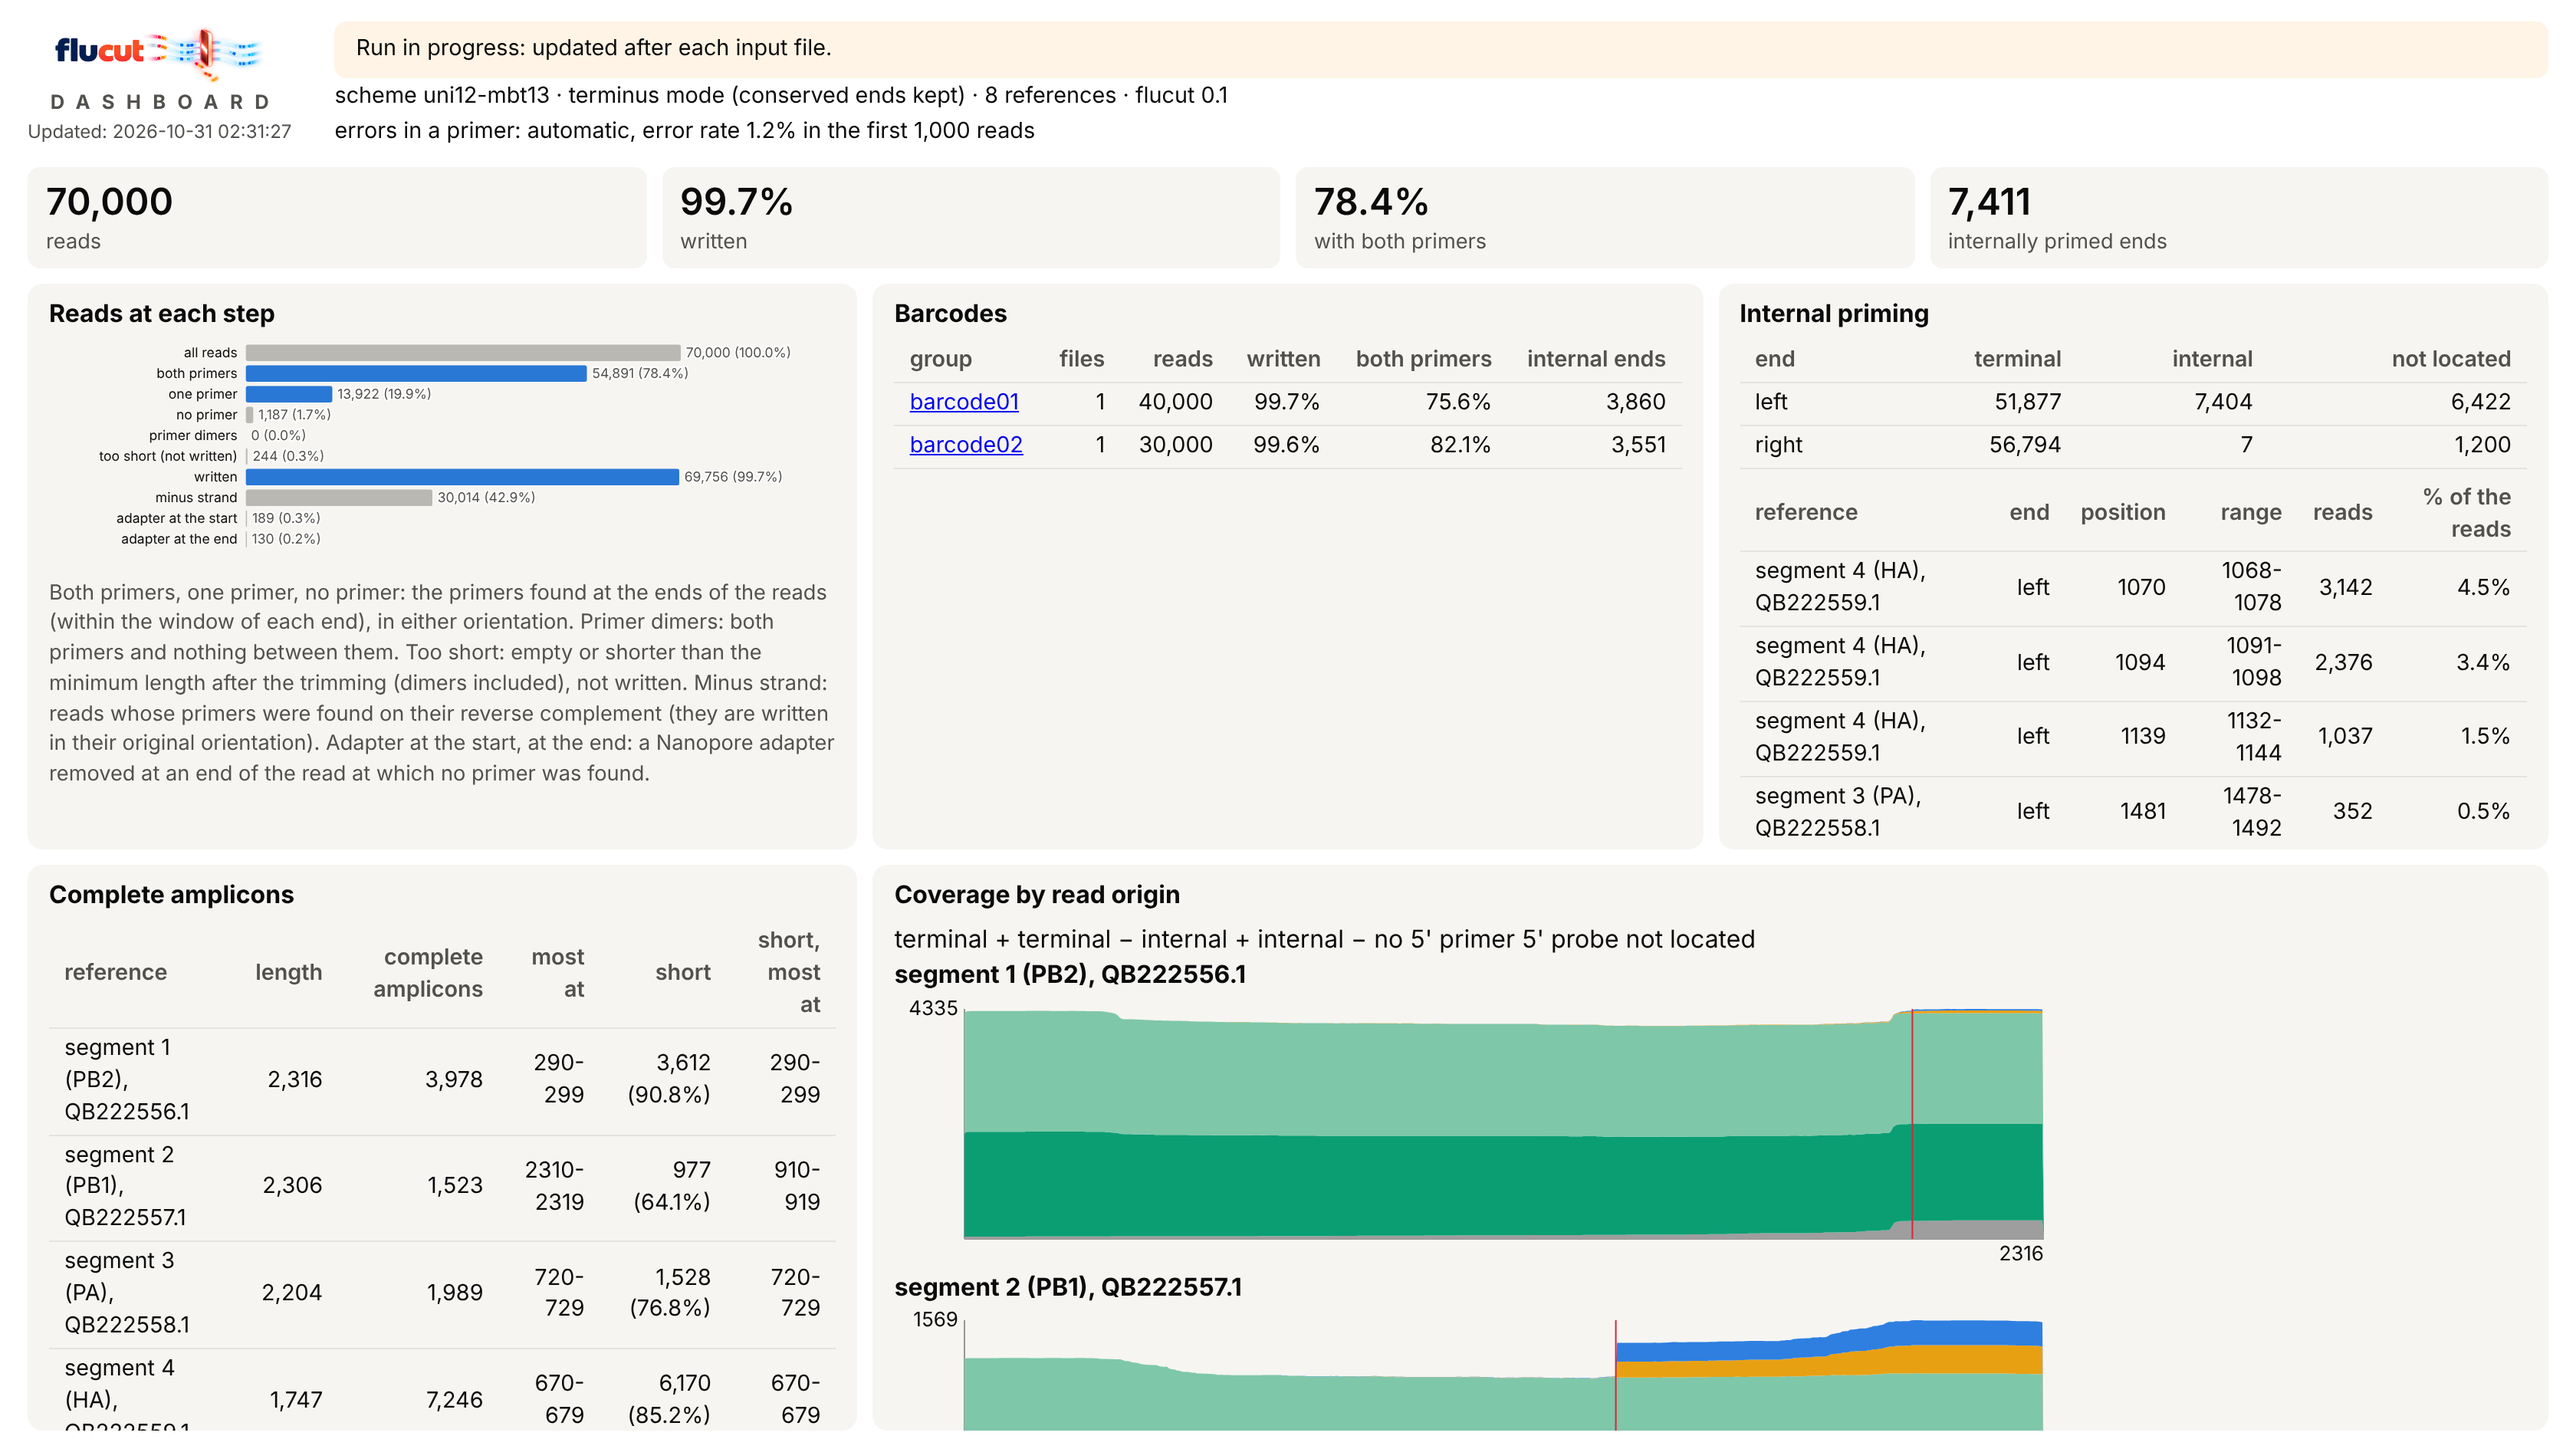
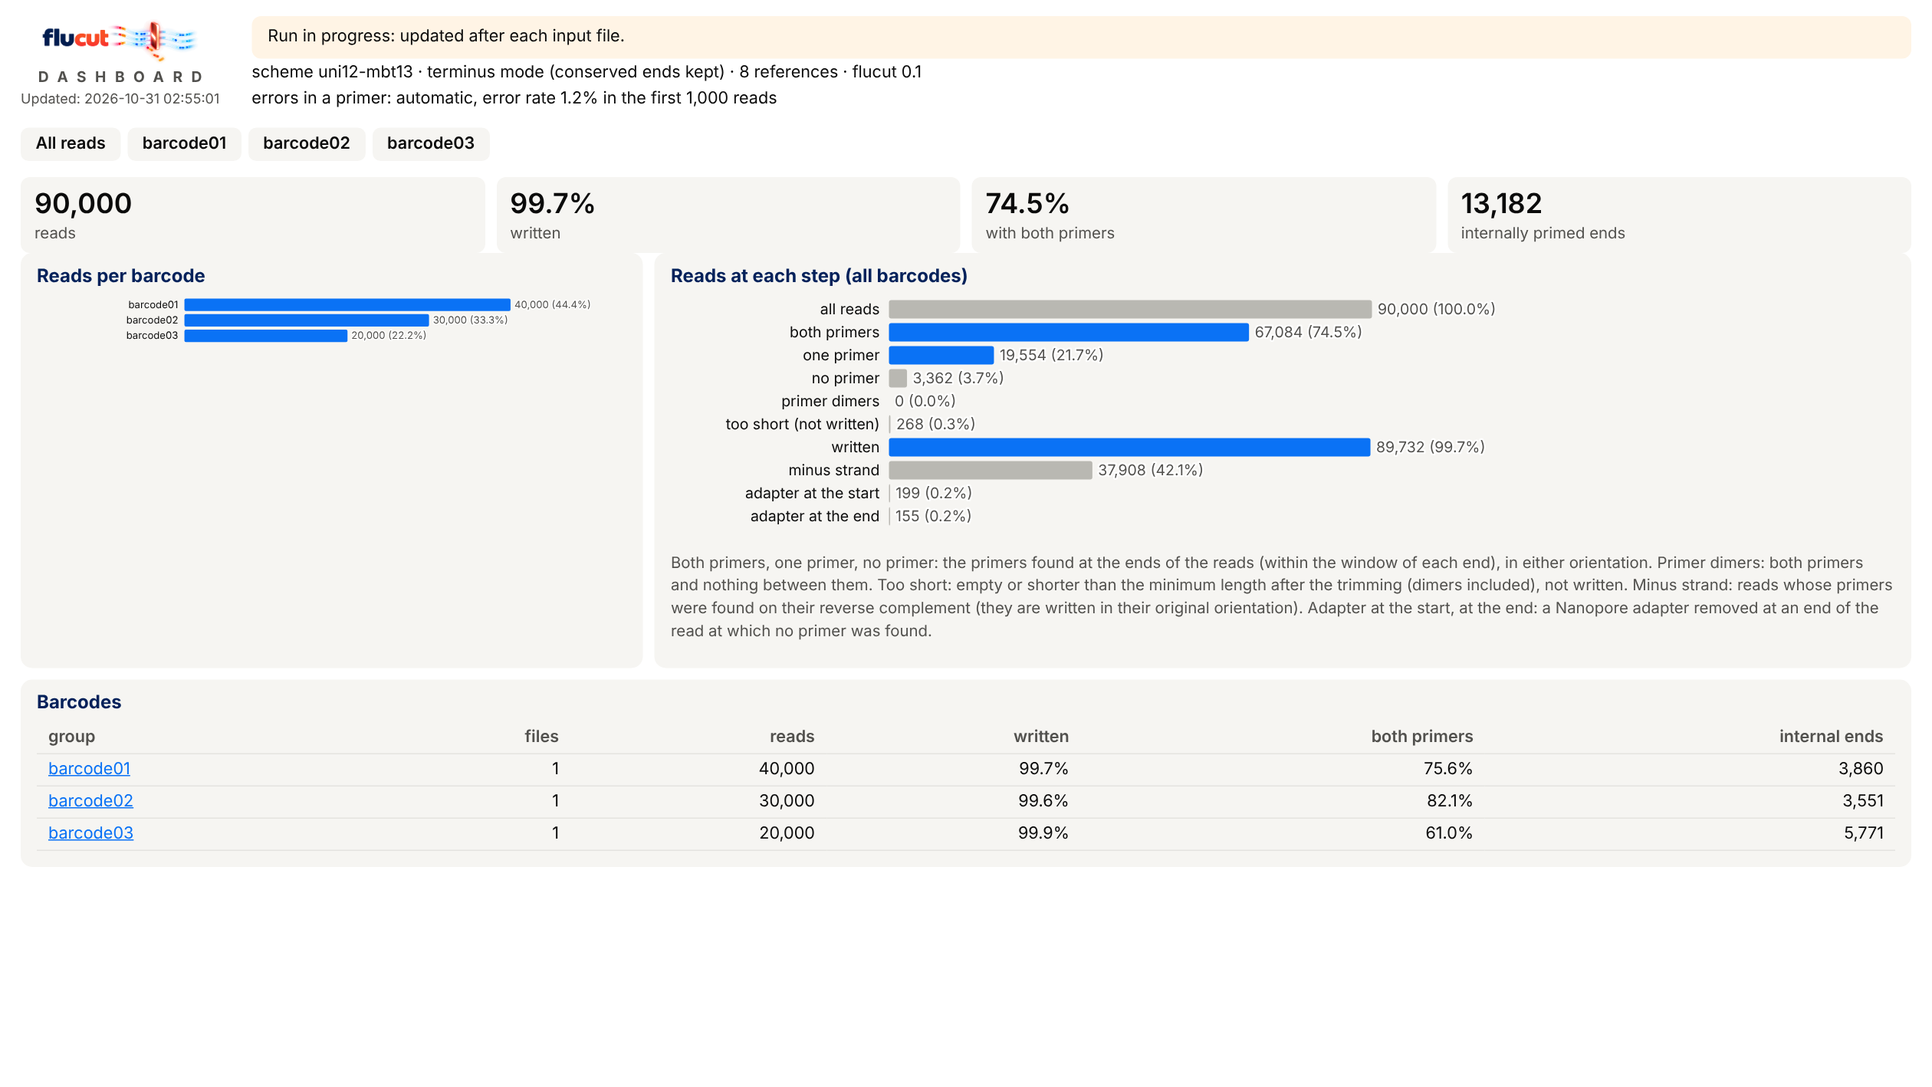
live dashboard: a tab per barcode, not pooled
Each barcode directory is a different sample, so the dashboard must not
pool them: the coverage, the internal-priming sites and the length
distributions of different samples are different genomes. The dashboard
now has a tab for each barcode (its own reads at each step, internal
priming and sites, complete amplicons and coverage of every segment) and
an overview tab for the run as a whole (throughput, which is
sample-independent, plus a per-barcode summary and reads-per-barcode
bars). The tabs use the URL fragment (:target), so the chosen one
survives the 30-second reload; the per-sample content can be taller than
one screen and scrolls. A single-sample run has no tabs, just its
panels.

diff --git a/src/html-report-style.html b/src/html-report-style.html
@@ -23,4 +23,19 @@
   .coverplot { margin: 6px 0; }
   .coverplot b { font-size: 0.9em; }
   .coverplot svg { display: block; }
+  /* dashboard (live mode): each barcode is a different sample, shown in */
+  /* its own tab; the per-sample content (all segments) may be taller */
+  /* than one screen, so the page scrolls */
+  body.dash main { height: auto; min-height: 100vh; }
+  .dash .dgrid { grid-auto-rows: auto; }
+  .panel.full { grid-column: 1 / -1; }
+  .tabs { display: flex; flex-wrap: wrap; gap: 6px; margin: 2px 0 4px; }
+  .tabs a { padding: 4px 13px; border-radius: 7px; background: var(--card);
+    color: inherit; text-decoration: none; font-weight: 600;
+    font-size: 0.9em; }
+  .tabs a:hover { background: var(--primary); color: #fff; }
+  .tabpanel { display: none; }
+  .tabpanel:target { display: block; }
+  #ov { display: block; }
+  body:has(.tabpanel.bc:target) #ov { display: none; }
 </style>

diff --git a/src/html-report.c b/src/html-report.c
@@ -694,41 +694,57 @@ static void write_dashboard_bar(html_writer_t *w, const report_t *r) {
   }
 }
 
-static void write_dashboard(html_writer_t *w, const report_t *r) {
-  const html_logo_t logo = {report_logo, report_logo_dark, "flucut",
-                            DASHBOARD_LOGO_HEIGHT};
-  html_dashboard_start(w, "flucut dashboard", &logo, "dashboard",
-                       r->refresh);
-  write_dashboard_bar(w, r);
-  html_dashboard_bar_end(w);
-  const counter_t *c = r->total;
+/* a bar per barcode, its reads (of the run total) */
+static void write_barcode_reads_bars(html_writer_t *w, const report_t *r) {
+  size_t n = r->n_sections;
+  const char **labels;
+  size_t *values;
+  const char **classes;
+  XMALLOC(labels, sizeof(char *) * n);
+  XMALLOC(values, sizeof(size_t) * n);
+  XMALLOC(classes, sizeof(char *) * n);
+  size_t total = 0;
+  for (size_t i = 0; i < n; i++) {
+    labels[i] = r->sections[i].name;
+    values[i] = r->sections[i].counts != NULL ?
+                counter_reads(r->sections[i].counts)->reads_in : 0;
+    classes[i] = "s";
+    total += values[i];
+  }
+  html_hbars(w, n, (const char *const *)labels, values,
+             (const char *const *)classes, total, 0);
+  free(labels);
+  free(values);
+  free(classes);
+}
+
+/* the panels of one sample (a barcode, or all the reads of a run of a
+   single sample): the reads at each step, the internal priming (or, without
+   references, the primers), the complete amplicons, and, across the whole
+   width, the coverage of every segment by read origin. Each barcode is a
+   different sample, so these are never pooled across barcodes */
+static void write_dash_section(html_writer_t *w, const report_t *r,
+    const counter_t *c) {
   const counter_reads_t *s = counter_reads(c);
+  bool refs = r->references != NULL;
   open_class(w, "div", "tiles");
   write_tiles(w, r, s);
   html_close(w);
-  bool refs = r->references != NULL;
-  bool multi = r->n_sections > 1;
+  if (s->reads_in == 0) {
+    note(w, "No reads yet.");
+    return;
+  }
   open_class(w, "div", "dgrid");
   html_panel_start(w, "Reads at each step", NULL);
-  if (s->reads_in > 0)
-    write_steps(w, s);
-  else
-    note(w, "No reads yet.");
+  write_steps(w, s);
   html_panel_end(w);
-  /* with several barcode directories, a per-barcode summary; otherwise the
-     primers found */
-  if (multi) {
-    html_panel_start(w, "Barcodes", NULL);
-    write_groups_table(w, r);
+  if (refs) {
+    html_panel_start(w, "Internal priming", NULL);
+    write_sites(w, r, c);
     html_panel_end(w);
   } else {
     html_panel_start(w, "Primers found", NULL);
     write_primers(w, r, c);
-    html_panel_end(w);
-  }
-  if (refs) {
-    html_panel_start(w, "Internal priming", NULL);
-    write_sites(w, r, c);
     html_panel_end(w);
   }
   html_panel_start(w, "Complete amplicons", NULL);
@@ -737,14 +753,81 @@ static void write_dashboard(html_writer_t *w, const report_t *r) {
   else
     note(w, "None yet.");
   html_panel_end(w);
-  /* the coverage spans two columns (its plots are wide): with the four
-     panels above it fills the grid in two rows */
   if (refs) {
-    html_panel_start(w, "Coverage by read origin", "wide");
+    html_panel_start(w, "Coverage by read origin", "full");
     write_coverage(w, r, c);
     html_panel_end(w);
   }
   html_close(w);   /* dgrid */
+}
+
+static void write_dashboard(html_writer_t *w, const report_t *r) {
+  const html_logo_t logo = {report_logo, report_logo_dark, "flucut",
+                            DASHBOARD_LOGO_HEIGHT};
+  html_dashboard_start(w, "flucut dashboard", &logo, "dashboard",
+                       r->refresh);
+  write_dashboard_bar(w, r);
+  html_dashboard_bar_end(w);
+  html_template(w, style_tmpl);
+  if (r->n_sections <= 1) {
+    write_dash_section(w, r, r->total);
+    html_page_end(w, NULL);
+    return;
+  }
+  /* several barcode directories: each is a different sample, shown in its
+     own tab (its own coverage and sites, not pooled with the others), with
+     an overview tab of the run as a whole. The tabs are selected through
+     the URL fragment, so the chosen one survives the automatic reload */
+  open_class(w, "div", "tabs");
+  html_open(w, "a");
+  html_attr(w, "href", "#ov");
+  html_text(w, "All reads");
+  html_close(w);
+  for (size_t i = 0; i < r->n_sections; i++) {
+    html_open(w, "a");
+    html_attr(w, "href", "#s%zu", i);
+    html_text(w, r->sections[i].name);
+    html_close(w);
+  }
+  html_close(w);
+  /* the overview: the throughput of the whole run (which does not depend on
+     the sample) and the per-barcode summary; no pooled coverage or sites */
+  html_open(w, "section");
+  html_attr(w, "id", "ov");
+  html_attr(w, "class", "tabpanel");
+  const counter_reads_t *s = counter_reads(r->total);
+  open_class(w, "div", "tiles");
+  write_tiles(w, r, s);
+  html_close(w);
+  open_class(w, "div", "dgrid");
+  html_panel_start(w, "Reads per barcode", NULL);
+  if (s->reads_in > 0)
+    write_barcode_reads_bars(w, r);
+  else
+    note(w, "No reads yet.");
+  html_panel_end(w);
+  html_panel_start(w, "Reads at each step (all barcodes)", "wide");
+  if (s->reads_in > 0)
+    write_steps(w, s);
+  else
+    note(w, "No reads yet.");
+  html_panel_end(w);
+  html_panel_start(w, "Barcodes", "full");
+  write_groups_table(w, r);
+  html_panel_end(w);
+  html_close(w);   /* dgrid */
+  html_close(w);   /* section#ov */
+  for (size_t i = 0; i < r->n_sections; i++) {
+    const report_section_t *g = r->sections + i;
+    html_open(w, "section");
+    html_attr(w, "id", "s%zu", i);
+    html_attr(w, "class", "tabpanel bc");
+    if (g->counts == NULL)
+      note(w, "Not processed yet.");
+    else
+      write_dash_section(w, r, g->counts);
+    html_close(w);
+  }
   html_page_end(w, NULL);
 }
 

diff --git a/docs/manual/live.rst b/docs/manual/live.rst
@@ -45,18 +45,25 @@ After each file, ``summary.tsv``, ``lengths.tsv``, the JSON summary and
 ``flucut_report.html`` are written again (each to a temporary file, then
 renamed, so that a reader never sees an incomplete one).
 
-While the run is in progress, ``flucut_report.html`` is a **dashboard**:
-a single screen, without scrolling, that reloads itself every 30 seconds
-(the JSON summary has ``"running": true``). It shows, as the run builds
-up, the reads at each step, a per-barcode summary (one row per barcode
-directory), the internal priming and its sites, the complete amplicons,
-and the coverage of the segments by read origin.
+While the run is in progress, ``flucut_report.html`` is a **dashboard**
+that reloads itself every 30 seconds (the JSON summary has
+``"running": true``). As each barcode directory is a different sample, the
+dashboard does not pool them: it has a tab for each barcode, with that
+sample's own reads at each step, internal priming and its sites, complete
+amplicons and coverage of every segment by read origin, and an **overview
+tab** for the run as a whole (the throughput, which does not depend on the
+sample, and a per-barcode summary: reads, written, with both primers, and
+internally primed ends). The chosen tab is kept in the page address, so it
+survives the automatic reload. With a single sample there are no tabs, just
+its panels. A run of many samples does not fit one screen; the per-sample
+tab then scrolls.
 
 .. figure:: figures/dashboard.*
    :width: 100%
 
-   The dashboard of a live run of two barcodes (the reads of two real
-   H5N1 Nanopore runs, against complete segment references).
+   The overview tab of a live run of three barcodes (reads of three real
+   H5N1 Nanopore runs, against complete segment references); each barcode
+   has its own tab with its coverage and sites.
 
 At the end, the final version is written as the **full report**
 (:doc:`reports`), scrolling, with a section for each barcode; the counts

diff --git a/docs/manual/figures/README.md b/docs/manual/figures/README.md
@@ -62,16 +62,14 @@
       node screenshot.js cov/flucut_report.html . \
         report_coverage="+Coverage by read origin"
 
-- `dashboard.png`: the live-mode dashboard, from a live run of two
-  barcode directories (the reads of two real Nanopore runs, `SRR36760543`
-  and `SRR36760506`, split into `barcode01` and `barcode02`), against the
-  complete-segment references (`coverage_refs.fasta`). Start a live run,
-  drop a file into each barcode directory, and screenshot at a wide
-  viewport while it is running:
+- `dashboard.png`: the live-mode dashboard (its overview tab), from a
+  live run of three barcode directories (the reads of three real Nanopore
+  runs, `SRR36760543`, `SRR36760506` and `SRR36760520`, as `barcode01`,
+  `barcode02`, `barcode03`), against the complete-segment references
+  (`coverage_refs.fasta`). Start a live run, drop a file into each barcode
+  directory, and screenshot at a wide viewport while it is running (the
+  overview; a barcode tab is at the URL fragment `#s0`, `#s1`, ...):
 
       flucut --live --min-age 0 -r coverage_refs.fasta -o out in &
-      # ... in/barcode01/*.fastq.gz, in/barcode02/*.fastq.gz appear ...
+      # ... in/barcode01/*.fastq.gz, in/barcode02/*.fastq.gz, ... appear ...
       node dashboard-shot.js out/flucut_report.html dashboard.png
-
-  (`dashboard-shot.js`: Playwright, a 1680x945 viewport, a full-page
-  screenshot.)

diff --git a/docs/further-developments.md b/docs/further-developments.md
@@ -46,12 +46,12 @@ support the trimming; they are not the purpose of the program.
   primer bases left in about 210 of 6400 read ends; the consensus is not
   affected in the benchmark). Not done: few reads.
 - **Live dashboard**: done. While a run is in progress the HTML report is
-  a dashboard (one screen, no scrolling, reloaded every 30 seconds): the
-  reads at each step, a per-barcode summary, the internal priming and its
-  sites, the complete amplicons and the coverage by read origin; the
-  final report at the end is the full scrolling one. Still possible: a
-  test on a replay of a real run (Lumipore's `tests/fake_minknow`), and
-  per-barcode bars rather than a table.
+  a dashboard, reloaded every 30 seconds, with a tab for each barcode
+  (its own coverage and sites, not pooled with the other samples) and an
+  overview tab; the final report at the end is the full scrolling one.
+  Still possible: a test on a replay of a real run (Lumipore's
+  `tests/fake_minknow`), and an active-tab highlight (the tabs use the URL
+  fragment, so styling the current one needs `:target` on the links).
 - **Report, next**: the remnants (primer bases left), the read lengths
   before and after the trimming, the primers found whole or partial,
   per segment; a mark of the internal sites in the length histograms.
